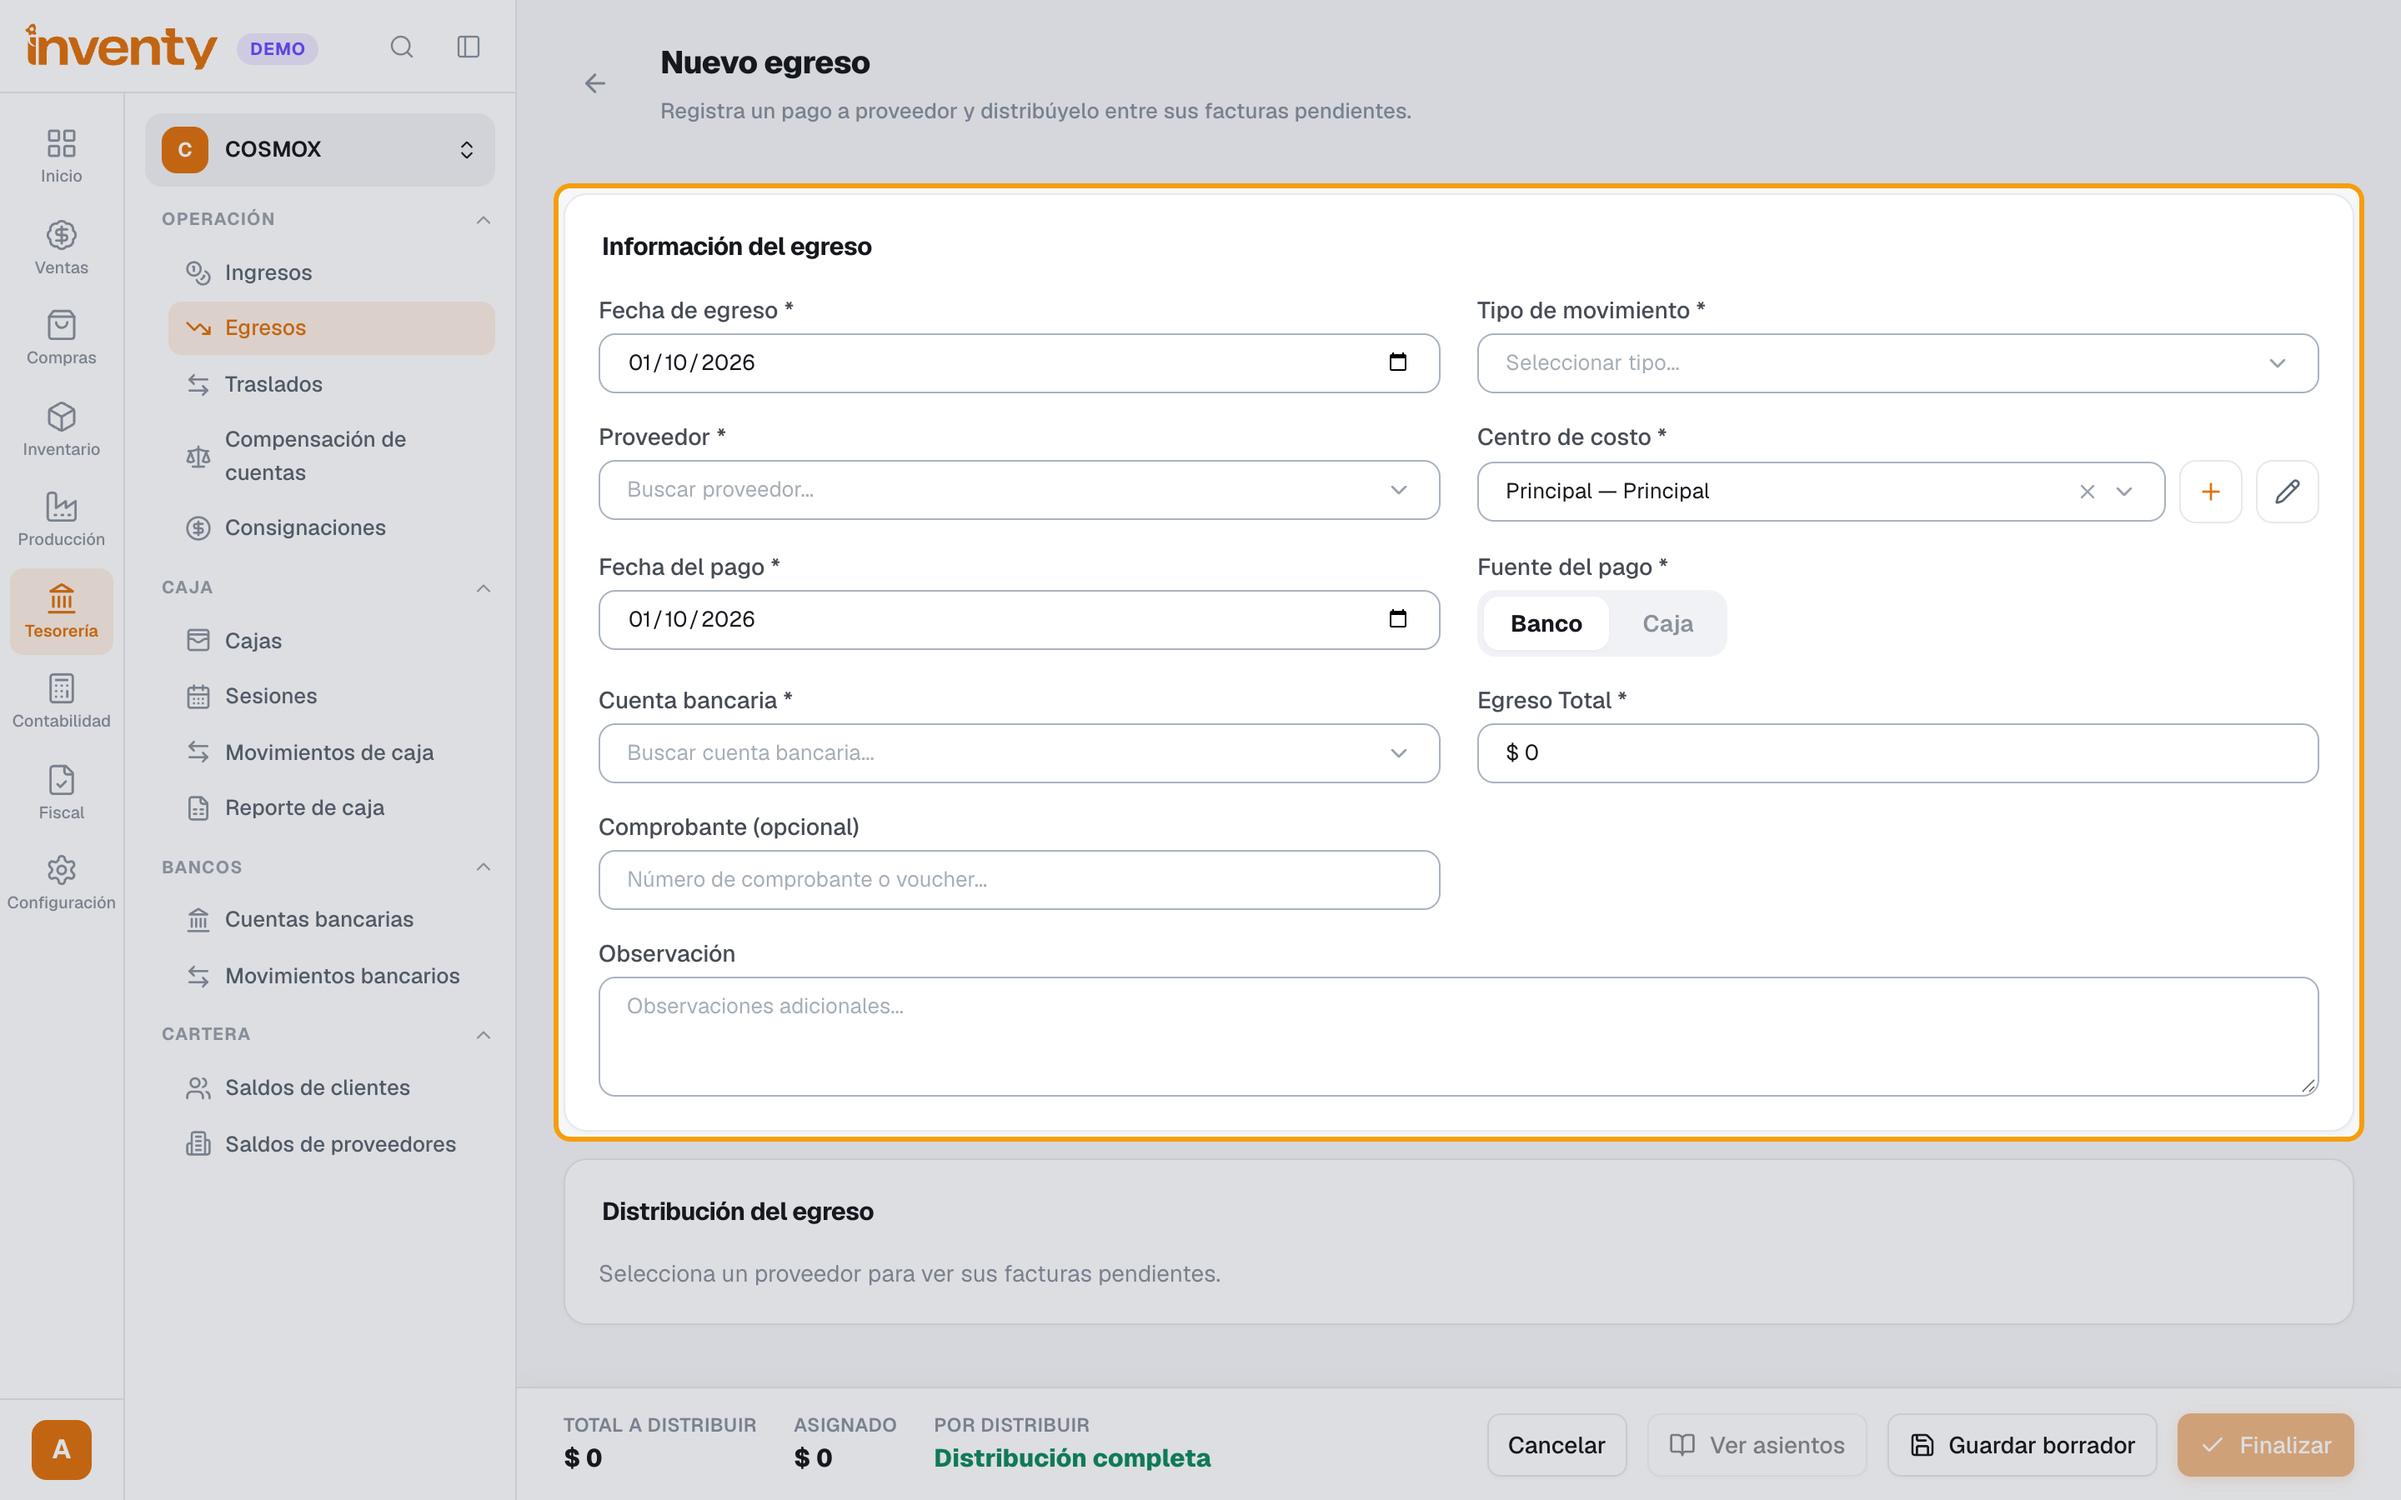
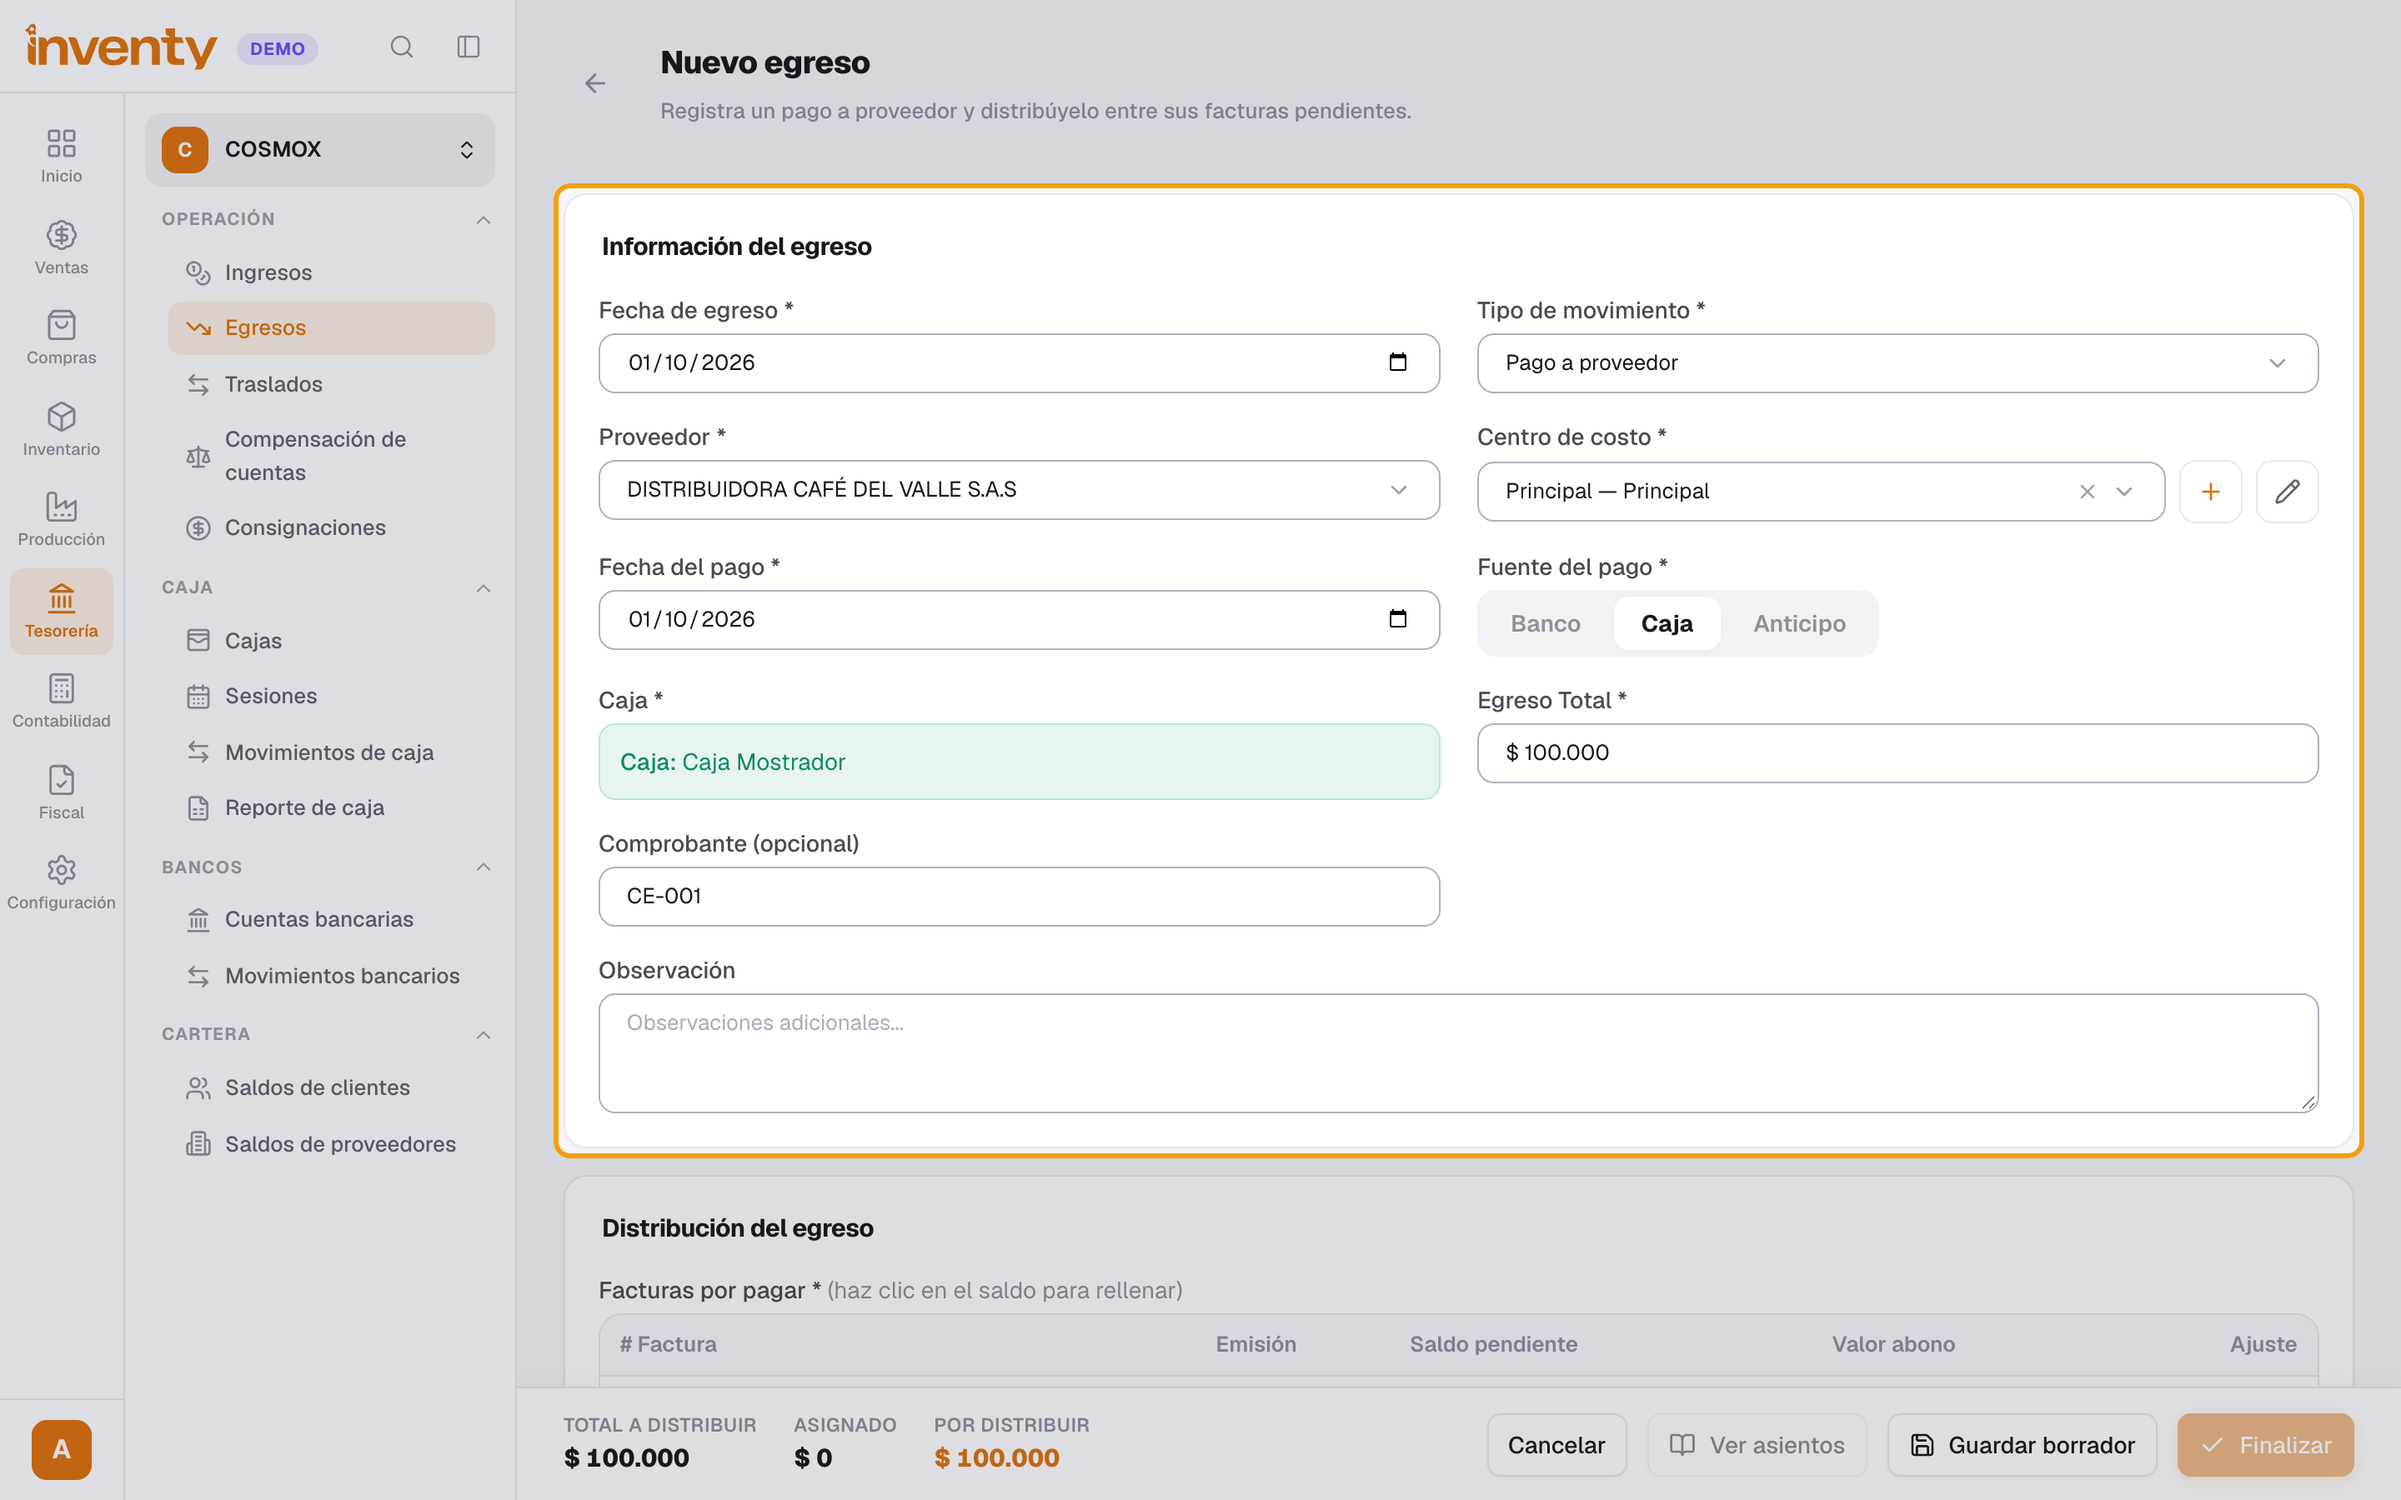
feat: pago a proveedor real en la demo (PGE-2026-0001) y login fijo a la empresa demo

diff --git a/docs/finanzas/registrar-egreso.md b/docs/finanzas/registrar-egreso.md
@@ -7,7 +7,7 @@ modulo: finanzas
 menu: "Tesorería › Egresos"
 permisos:
   - Gestionar egresos
-revisado: 2026-09-30
+revisado: 2026-10-01
 tags:
   - Tesorería
   - Proveedores
@@ -30,19 +30,19 @@ tags:
 
 ![Paso 2: tipo de movimiento y proveedor](../assets/capturas/finanzas/registrar-egreso/paso-2.png)
 
-**Paso 3.** Completa **Centro de costo**, **Fecha del pago**, **Fuente del pago** (caja o banco) y **Egreso Total**.
+**Paso 3.** Revisa **Centro de costo** y **Fecha del pago**. En **Fuente del pago** elige **Banco**, **Caja** (sale de tu caja abierta) o **Anticipo**. Escribe el **Egreso Total** y, si quieres, el **Comprobante**.
 
 ![Paso 3: información del egreso](../assets/capturas/finanzas/registrar-egreso/paso-3.png)
 
-**Paso 4.** En **Distribución del egreso**, asigna el valor a las facturas que pagas hasta que **Por distribuir** quede en cero.
+**Paso 4.** En **Distribución del egreso**, escribe el **Valor abono** de cada factura (o haz clic en el **Saldo pendiente** para pagarla completa) hasta que abajo diga **Distribución completa**.
 
 ![Paso 4: distribución del egreso](../assets/capturas/finanzas/registrar-egreso/paso-4.png)
 
-**Paso 5.** Haz clic en **Finalizar egreso** y confirma.
+**Paso 5.** Haz clic en **Finalizar** y confirma con **Finalizar**.
 
-![Paso 5: botón Finalizar egreso](../assets/capturas/finanzas/registrar-egreso/paso-5.png)
+![Paso 5: botón Finalizar](../assets/capturas/finanzas/registrar-egreso/paso-5.png)
 
-✅ **Listo:** baja lo que le debes al proveedor y el dinero sale de la caja o banco.
+✅ **Listo:** el egreso queda **Finalizado** con número **PGE-**, baja el saldo de la factura del proveedor y el dinero sale de la caja o banco. Si aún no quieres confirmarlo, usa **Guardar borrador**.
 
 ## Si algo falla
 

diff --git a/gestion/capturas-reporte.md b/gestion/capturas-reporte.md
@@ -1,5 +1,5 @@
 # Reporte de capturas
 
-> Generado por `npm run capturas` el 1/10/2026, 12:57:53 p. m.. Ambiente: https://erp.cosmox.tech
+> Generado por `npm run capturas` el 1/10/2026, 4:35:45 p. m.. Ambiente: https://erp.cosmox.tech
 
-**6** capturas tomadas · **0** fallas · **58** imágenes siguen pendientes.
+**5** capturas tomadas · **0** fallas · **57** imágenes siguen pendientes.
